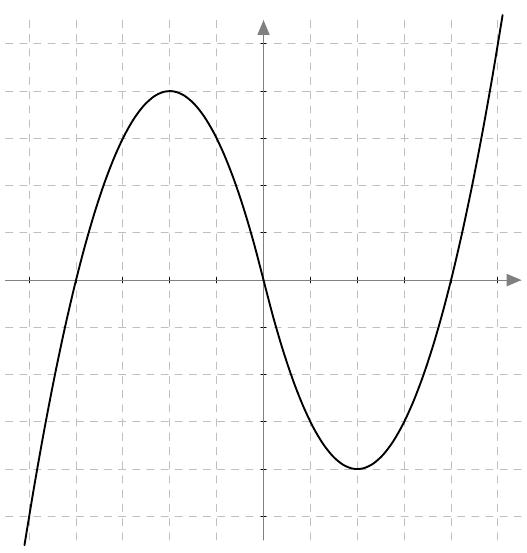
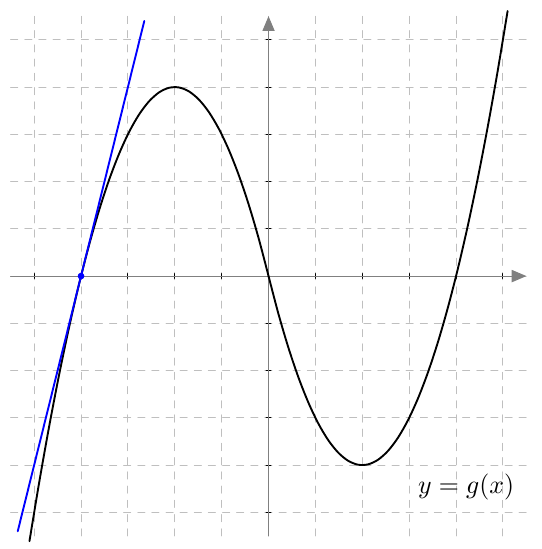
Lisää

diff --git a/kurssit/maa6/luku1/index.html b/kurssit/maa6/luku1/index.html
@@ -261,14 +261,16 @@ topnav: maa6
                     </header>
                     <div id="t105" class="collapse">
                         <p>
-                            Tutki alla olevaa kuvaa. Määritä derivaatan eli tangentin kulmakertoimen avulla funktion $f$ kasvunopeus kohdassa
+                            Tutki alla olevaa kuvaa. 
                         </p>
                         <ol class="a">
-                            <li> $x = -1$ </li>
-                            <li> $x = 2$ </li>
-                            <li> $x = 5$. </li>
-                            <li> Missä kohdassa funktion kasvu hetkellisesti pysähtyy? </li>
-                            <li> Mikä on funktion $f$ suurin arvo? Missä kohdassa funktio $f$ saa suurimman arvonsa? </li>
+                            <li> Määritä funktion $g$ kasvunopeus kohdassa $x = -4$. </li>
+                            <li> Millä $x$-akselin väleillä funktion arvot ovat positiivisia eli $g(x) > 0$? </li>
+                            <li> Millä $x$-akselin väleillä funktion derivaatta on positiivinen eli $g'(x) > 0$?</li>
+                            <li> Missä kohdissa $g(x) = 0$? </li>
+                            <li> Missä kohdissa $g'(x) = 0$? </li>
+                            <li> Millä $x$-akselin väleillä funktion arvot ovat negatiivisia eli $g(x) < 0$? </li>
+                            <li> Millä $x$-akselin väleillä funktion derivaatta on negavinen eli $g'(x) < 0$?</li>
                         </ol>
                         <img src="/kurssit/maa6/kuvat/kuva07.png" max-width: 100%; width: auto; height: auto;/>
                              <h2>
@@ -278,11 +280,13 @@ topnav: maa6
                         </h2>
                         <div id="t105_v" class="collapse">
                             <ol class="a">
-                                <li> Funktion $f$ kasvunopeus kohdassa $x = -1$ on $f'(-1) = 2.$ </li>
-                                <li> Funktion $f$ kasvunopeus kohdassa $x = 2$ on $f'(2) \approx 0{,}5$ </li>
-                                <li> Funktion $f$ kasvunopeus kohdassa $x = 5$ on $f'(5) = -1$ eli funktion arvot pienenevät. </li>
-                                <li> Kohdassa $x = 3$. </li>
-                                <li> Funktion $f$ suurin arvo on $4$. Funktio saa sen kohdassa $x = 3$. Siis $f(3) = 4$.</li>
+                                <li> Funktion $g$ kasvunopeus kohdassa $x = -4$ on $g'(-4) = 4$. </li>
+                                <li> Funktion $g$ arvot ovat positiivisia väleillä $\pa -4, 0 \pe$ ja $4, \infty$. </li>
+                                <li> Funktion $g$ derivaatta on positiivinen väleillä $\pa -\infty, -2\pe$ ja $\pa 2, \infty \pe$. </li>
+                                <li> Kohdissa $x = -4$, $x = 0$ ja $x = 4$. </li>
+                                <li> KOhdissa $x = -2$ ja $x = 2$.</li>
+                                <li> Funktion $g$ arvot ovat negatiivisia välillä $\pa 0,4 \pe$. </li>
+                                <li> Funktion $g$ derivaatta on negatiivinen välillä $\pa -2, 2\pe$. </li>
                             </ol>
                         </div>
                     </div>
